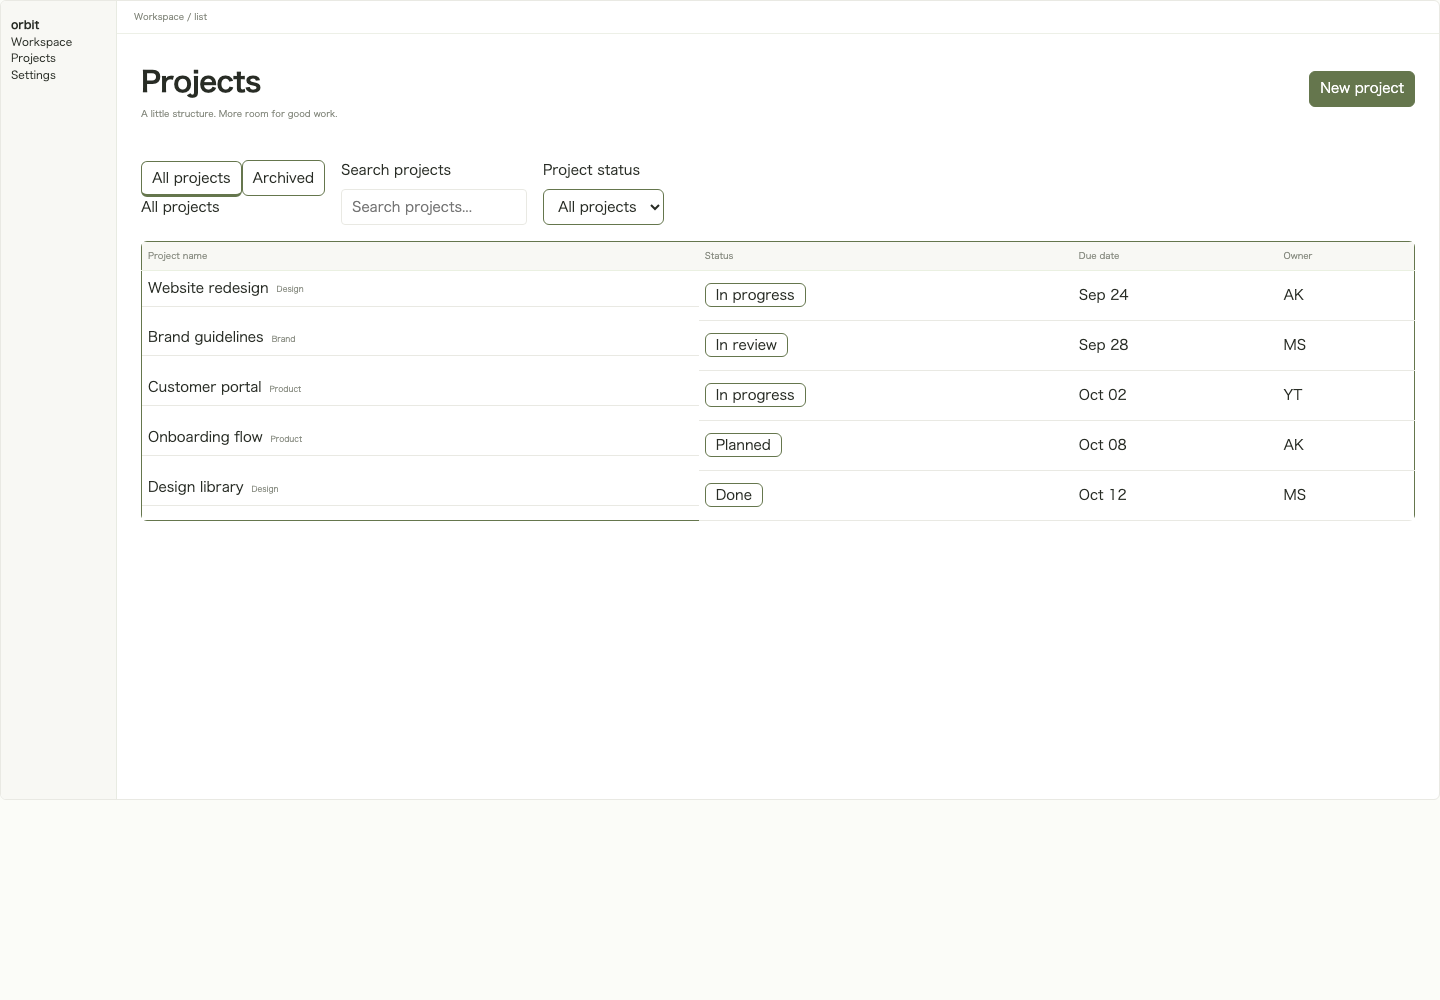
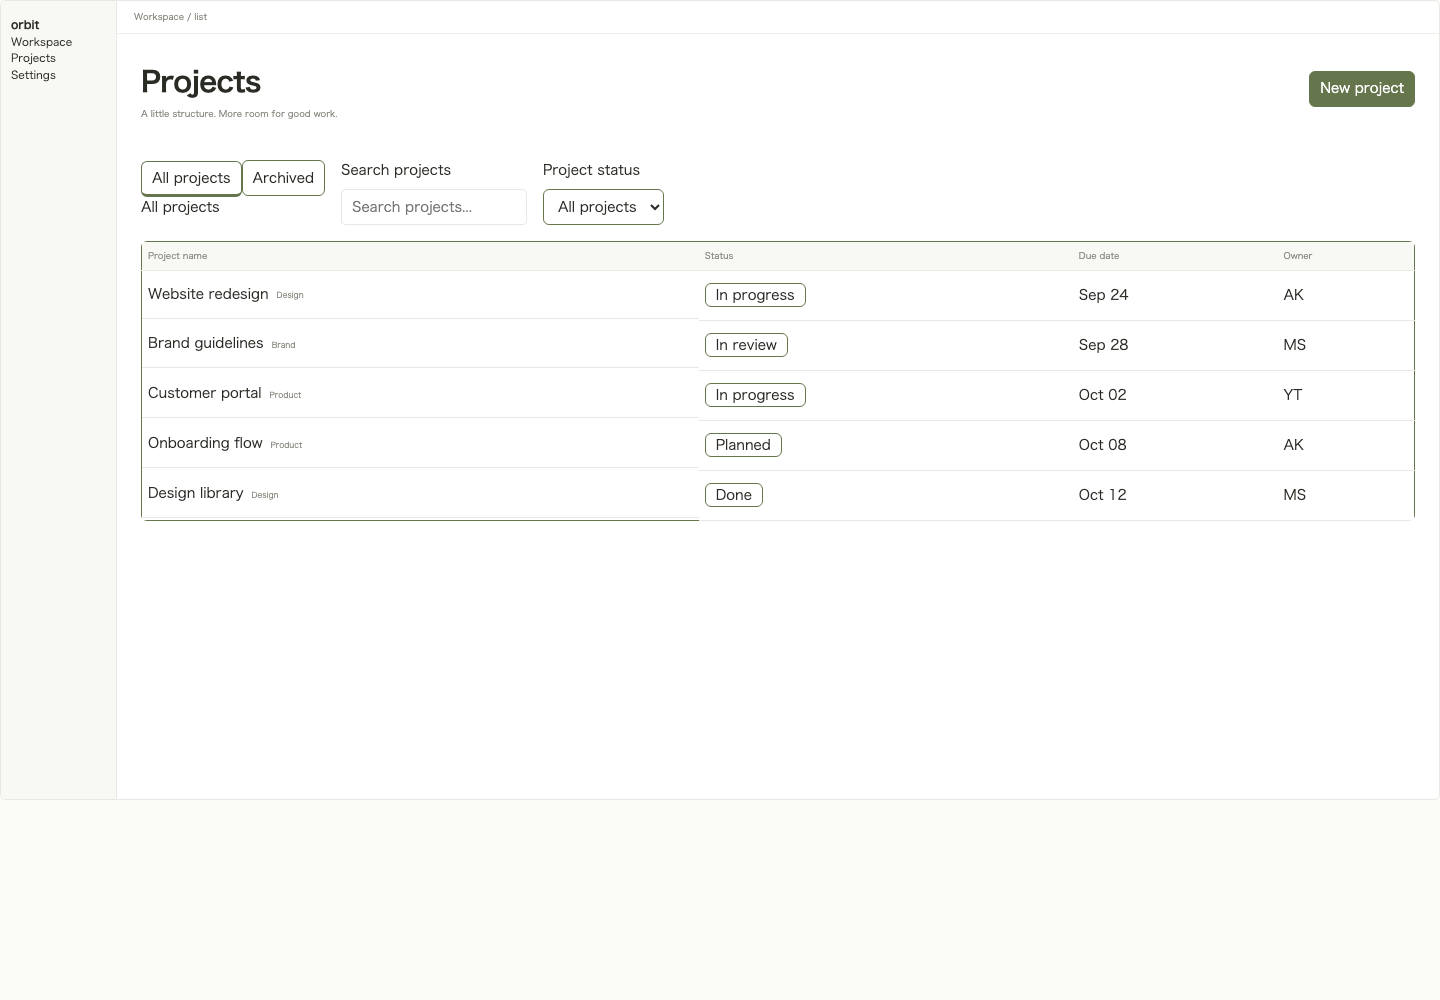
Refresh muted color proposal against current renderer

Changed region(s): [[0.0938, 0.279, 0.2188, 0.403], [0.0938, 0.434, 0.2188, 0.527]]

diff --git a/tests/preview-shadow.e2e.ts b/tests/preview-shadow.e2e.ts
@@ -15,6 +15,9 @@ for (const width of [1440, 390] as const) {
     });
     expect(response.ok()).toBe(true);
     const p = await response.json();
+    const initialDesign = (
+      await (await page.request.get(`/api/projects/${p.id}/foundation`)).json()
+    ).current.design;
     await page.goto(`/projects/${p.id}/foundation`);
     await page.getByRole("tab", { name: "Shadows", exact: true }).click();
     const root = page.frameLocator("iframe").locator(".sample-app");
@@ -61,7 +64,7 @@ for (const width of [1440, 390] as const) {
       await (await page.request.get(`/api/projects/${p.id}/foundation`)).json()
     ).current;
     expect(current.design).toEqual({
-      ...defaultDesign,
+      ...initialDesign,
       shadow: true,
       shadowAllowed: "Preview",
       shadowX: 7,
@@ -102,7 +105,7 @@ for (const width of [1440, 390] as const) {
     const original = (
       await (await page.request.get(`/api/projects/${p.id}/foundation`)).json()
     ).history.find((r: { revision: number }) => r.revision === 1);
-    expect(original.design).toEqual(defaultDesign);
+    expect(original.design).toEqual(initialDesign);
     if (width === 1440) {
       const result = await (
         await page.request.post(`/api/projects/${p.id}/reviews`, {

diff --git a/tests/table-height.e2e.ts b/tests/table-height.e2e.ts
@@ -86,12 +86,12 @@ for (const width of [1440, 390]) {
     const saved = (await (await page.request.get(`${base}/foundation`)).json())
       .current;
     expect(saved.design).toEqual({
-      ...defaultDesign,
+      ...original.design,
       rowHeight: 120,
       controlHeight: 100,
       components: {
-        ...defaultDesign.components,
-        Table: { ...defaultDesign.components.Table, size: "lg" },
+        ...original.design.components,
+        Table: { ...original.design.components.Table, size: "lg" },
       },
     });
     const history = (

diff --git a/docs/reviews/default-muted-color/README.md b/docs/reviews/default-muted-color/README.md
@@ -11,7 +11,7 @@ The existing Review runs axe's WCAG 2 AA checks. Breadcrumbs and page descriptio
 
 Ratios use the WCAG relative-luminance formula; displayed values are rounded for comparison. Tests use real Chromium/axe on list, settings and form at 1440px and 390px. The fifteen affected findings across the three desktop screens disappear, with no affected `incomplete` results. The old color remains a positive control and is still reported. The actual Review API must complete three captures and verify color contrast.
 
-This color is one possible solution, not a uniquely required value. Main now makes category labels follow the configured muted token (PR #94); this proposal selects no additional value for those labels. The comparison images use that current stylesheet on both sides. Other machine findings, interactive states and overall accessibility are outside this proposal.
+This color is one possible solution, not a uniquely required value. Main now makes category labels follow the configured muted token (PR #94); this proposal selects no additional value for those labels. The comparison images use the current shared renderer on both sides, including the saved 48px Table row height now rendered by PR #106. This proposal does not choose a new row-height value. Other machine findings, interactive states and overall accessibility are outside this proposal.
 
 ## 1440px comparison
 
